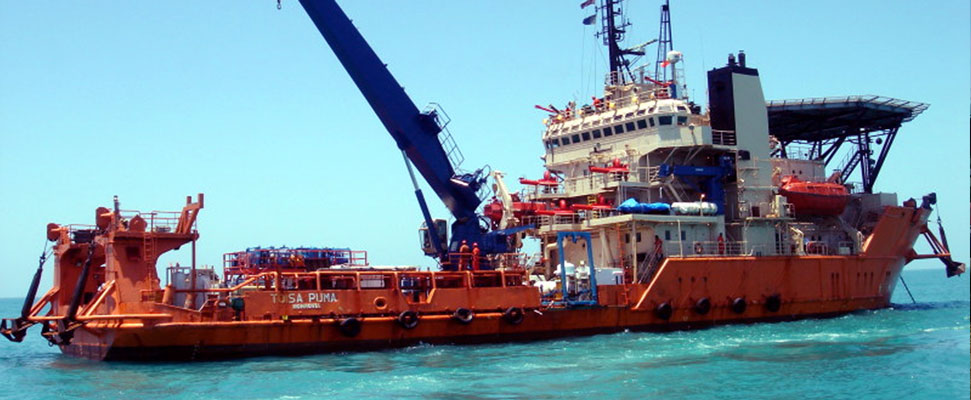
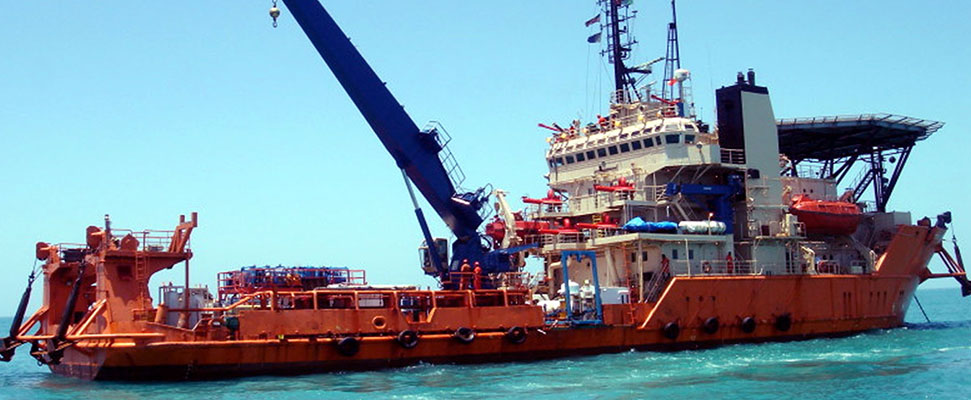
Modificaciones del cliente
Cambio de estilos en flotilla
Se editaron imágenes e íconos

diff --git a/css/custom.css b/css/custom.css
@@ -1,1 +1,1 @@
-.center{margin-left:auto;margin-right:auto}body{padding-top:50px;font-family:'Droid Sans' !important}h2{font-weight:bold;color:#123e84}h3{font-size:2.5em;color:#123e84}h4,.h4{color:#123e84;line-height:1em;font-size:1.8em}h5,.h5{color:#616974;font-size:1.3em;line-height:1.5em}hr{border-top:1px solid #bc212b}.mision,.quienes,.services,.flotilla{padding-bottom:55px;padding-top:55px}.home{color:#919396;position:relative;text-align:center;padding-top:180px;padding-bottom:150px}.home img{opacity:1}.home ul{display:block;text-align:center;position:relative;left:25%;font-size:1.3em}.home ul li{float:left;margin:20px;display:inline-block;font-weight:bold}.quote{position:relative;width:100%;color:#fff}.quote p{text-shadow:0 1px 3px rgba(0,0,0,0.25);text-align:center;margin-top:150px;margin-bottom:150px}.services h2{padding-bottom:20px}.contacto{padding-top:55px;padding-bottom:100px}.contacto article{border-left:1px solid #616974;font-size:1.5em;margin:1em 1em}.contacto h2,.contacto h3,.contacto h4{color:#fff !important}.gallery{min-height:400px;color:#fff;width:100%;font-size:.9em;margin-top:40px}.gallery h3{font-size:1.7em;line-height:12px}.gallery h4{font-size:1.4em;line-height:12px}.gallery h3,.gallery h4{color:#fff}.gallery .jcarousel{background-color:#123e84}.gallery .jcarousel .container{padding-top:200px;padding-bottom:50px}.gallery li{position:relative;background-repeat:no-repeat;min-height:600px;background-position:50%;background-size:cover}.gallery li.truck0{background-image:url(../images/gallery/camion0.jpg)}.gallery li.truck1{background-image:url(../images/gallery/camion1.jpg)}.gallery li.truck2{background-image:url(../images/gallery/camion2.jpg)}.gallery li.truck3{background-image:url(../images/gallery/terex.jpg)}.gallery li.buque1{background-image:url(../images/gallery/BUQUE_AHTS.jpg)}.gallery li.heli1{background-image:url(../images/gallery/bell_212.jpg)}.gallery li article{-webkit-transition:opacity .3s ease-in-out;-moz-transition:opacity .3s ease-in-out;-ms-transition:opacity .3s ease-in-out;-o-transition:opacity .3s ease-in-out;cursor:default;opacity:.4;line-height:1.2em;color:#f2f2f2;position:absolute;bottom:0;left:1.5em}.gallery li article:hover{opacity:1}.background{position:fixed;background-repeat:no-repeat;height:100%;width:100%;background-position:50%;background-size:cover;-webkit-transition:opacity 2s ease-in-out;-moz-transition:opacity 2s ease-in-out;-ms-transition:opacity 2s ease-in-out;-o-transition:opacity 2s ease-in-out}.background.bg1{background-image:url(../images/bg1.jpg)}.background.bg2{background-image:url(../images/bg2.jpg);opacity:0}.background.bg3{background-image:url(../images/bg3.jpg);opacity:0}.cover-blue-mate{color:#fff;position:relative;height:100%;width:100%;background-color:#29486b}.cover-blue{color:#fff;position:relative;height:100%;width:100%;background-color:#29486b;opacity:.88}.cover-grey{position:relative;height:100%;width:100%;background-color:#f2f2f2;box-shadow:0 0 3px 2px rgba(0,0,0,0.2)}.cover-red{background-color:#bc1600;opacity:.88}.cover-shadow{-webkit-box-shadow:inset 0 -120px 200px 0 rgba(0,0,0,0.9);-moz-box-shadow:inset 0 -120px 200px 0 rgba(0,0,0,0.9);box-shadow:inset 0 -120px 200px 0 rgba(0,0,0,0.9)}.navbar-logo{margin:40px auto}.navbar-header{padding:10px}.navbar-default{background-color:#fff;background:-webkit-gradient(linear, left top, left bottom, from(#fff), to(#e9e9e9));background:-webkit-linear-gradient(top, #fff, #e9e9e9);background:-moz-linear-gradient(top, #fff, #e9e9e9);background:-ms-linear-gradient(top, #fff, #e9e9e9);background:-o-linear-gradient(top, #fff, #e9e9e9);box-shadow:0 0 5px 2px rgba(0,0,0,0.2)}.navbar-default .navbar-nav{margin-top:15px}.navbar-default .navbar-nav li{-webkit-transition:all 1s ease-in-out;-moz-transition:all 1s ease-in-out;-ms-transition:all 1s ease-in-out;-o-transition:all 1s ease-in-out;border-right:2px solid #f2f2f2}.navbar-default .navbar-nav li a{padding-top:10px;padding-bottom:10px;padding-left:45px;color:#29486b;background-color:none}.navbar-default .navbar-nav li.active{-webkit-transition:all 1s ease-in-out;-moz-transition:all 1s ease-in-out;-ms-transition:all 1s ease-in-out;-o-transition:all 1s ease-in-out;color:#bc212b;border-right:2px solid #bc212b}.navbar-default .navbar-nav li.active a{background-color:inherit !important}.white{background:#fff;position:relative}.padding-1{padding-top:10px;padding-bottom:10px}.padding-2{padding-top:20px;padding-bottom:20px}.padding-3{padding-top:40px;padding-bottom:40px}.padding-4{padding-top:60px;padding-bottom:60px}.rojo{color:#bc212b}ul.valores li{color:#919396;float:none;line-height:35px}ul.valores li span{font-size:13px;margin-left:3em;padding-right:1em}.jcarousel .carousel-navigation{margin-top:30px}.jcarousel .carousel-navigation li{-webkit-transition:all 1s ease-in-out;-moz-transition:all 1s ease-in-out;-ms-transition:all 1s ease-in-out;-o-transition:all 1s ease-in-out;margin:auto 18px;opacity:.8}.jcarousel .carousel-navigation li:active,.jcarousel .carousel-navigation li:hover{opacity:1}.jcarousel .carousel-navigation li.active{opacity:.3}.jcarousel .carousel-navigation img{cursor:pointer}
+.center{margin-left:auto;margin-right:auto}body{padding-top:50px;font-family:'Droid Sans' !important}h2{font-weight:bold;color:#123e84}h3{font-size:2.5em;color:#123e84}h4,.h4{color:#123e84;line-height:1em;font-size:1.8em}h5,.h5{color:#616974;font-size:1.3em;line-height:1.5em}hr{border-top:1px solid #bc212b}.mision,.quienes,.services{padding-bottom:55px;padding-top:55px}.flotilla{padding-bottom:45px;padding-top:35px}.home{color:#919396;position:relative;text-align:center;padding-top:180px;padding-bottom:150px}.home img{opacity:1}.home ul{display:block;text-align:center;position:relative;left:25%;font-size:1.3em}.home ul li{float:left;margin:20px;display:inline-block;font-weight:bold}.quote{position:relative;width:100%;color:#fff}.quote p{text-shadow:0 1px 3px rgba(0,0,0,0.25);text-align:center;margin-top:150px;margin-bottom:150px}.services h2{padding-bottom:20px}.contacto{padding-top:55px;padding-bottom:100px}.contacto article{border-left:1px solid #616974;font-size:1.5em;margin:1em 1em}.contacto h2,.contacto h3,.contacto h4{color:#fff !important}.gallery{min-height:400px;color:#fff;width:100%;font-size:.9em;margin-top:40px}.gallery h3{font-size:1.7em;line-height:12px}.gallery h4{font-size:1.4em;line-height:12px}.gallery h3,.gallery h4{color:#fff}.gallery .jcarousel{background-color:#123e84}.gallery .jcarousel .container{padding-top:200px;padding-bottom:50px}.gallery li{position:relative;background-repeat:no-repeat;min-height:600px;background-position:50%;background-size:cover}.gallery li.truck0{background-image:url(../images/gallery/camion0.jpg)}.gallery li.truck1{background-image:url(../images/gallery/camion1.jpg)}.gallery li.truck2{background-image:url(../images/gallery/camion2.jpg)}.gallery li.truck3{background-image:url(../images/gallery/terex.jpg)}.gallery li.buque1{background-image:url(../images/gallery/BUQUE_AHTS.jpg)}.gallery li.heli1{background-image:url(../images/gallery/bell_212.jpg)}.gallery li article{-webkit-transition:opacity .3s ease-in-out;-moz-transition:opacity .3s ease-in-out;-ms-transition:opacity .3s ease-in-out;-o-transition:opacity .3s ease-in-out;cursor:default;display:block;width:100%;background-color:#000;opacity:.4;line-height:1.2em;color:#f2f2f2;position:absolute;bottom:0;left:0;padding-left:1.5em}.gallery li article:hover{opacity:1}.background{position:fixed;background-repeat:no-repeat;height:100%;width:100%;background-position:50%;background-size:cover;-webkit-transition:opacity 2s ease-in-out;-moz-transition:opacity 2s ease-in-out;-ms-transition:opacity 2s ease-in-out;-o-transition:opacity 2s ease-in-out}.background.bg1{background-image:url(../images/bg1.jpg)}.background.bg2{background-image:url(../images/bg2.jpg);opacity:0}.background.bg3{background-image:url(../images/bg3.jpg);opacity:0}.cover-blue-mate{color:#fff;position:relative;height:100%;width:100%;background-color:#29486b}.cover-blue{color:#fff;position:relative;height:100%;width:100%;background-color:#29486b;opacity:.88}.cover-grey{position:relative;height:100%;width:100%;background-color:#f2f2f2;box-shadow:0 0 3px 2px rgba(0,0,0,0.2)}.cover-red{background-color:#bc1600;opacity:.88}.cover-shadow{-webkit-box-shadow:inset 0 -120px 200px 0 rgba(0,0,0,0.9);-moz-box-shadow:inset 0 -120px 200px 0 rgba(0,0,0,0.9);box-shadow:inset 0 -120px 200px 0 rgba(0,0,0,0.9)}.navbar-logo{margin:40px auto}.navbar-header{padding:10px}.navbar-default{background-color:#fff;background:-webkit-gradient(linear, left top, left bottom, from(#fff), to(#e9e9e9));background:-webkit-linear-gradient(top, #fff, #e9e9e9);background:-moz-linear-gradient(top, #fff, #e9e9e9);background:-ms-linear-gradient(top, #fff, #e9e9e9);background:-o-linear-gradient(top, #fff, #e9e9e9);box-shadow:0 0 5px 2px rgba(0,0,0,0.2)}.navbar-default .navbar-nav{margin-top:15px}.navbar-default .navbar-nav li{-webkit-transition:all 1s ease-in-out;-moz-transition:all 1s ease-in-out;-ms-transition:all 1s ease-in-out;-o-transition:all 1s ease-in-out;border-right:2px solid #f2f2f2}.navbar-default .navbar-nav li a{padding-top:10px;padding-bottom:10px;padding-left:45px;color:#29486b;background-color:none}.navbar-default .navbar-nav li.active{-webkit-transition:all 1s ease-in-out;-moz-transition:all 1s ease-in-out;-ms-transition:all 1s ease-in-out;-o-transition:all 1s ease-in-out;color:#bc212b;border-right:2px solid #bc212b}.navbar-default .navbar-nav li.active a{background-color:inherit !important}.white{background:#fff;position:relative}.padding-1{padding-top:10px;padding-bottom:10px}.padding-2{padding-top:20px;padding-bottom:20px}.padding-3{padding-top:40px;padding-bottom:40px}.padding-4{padding-top:60px;padding-bottom:60px}.rojo{color:#bc212b}ul.valores li{color:#919396;float:none;line-height:35px}ul.valores li span{font-size:13px;margin-left:3em;padding-right:1em}.jcarousel .carousel-navigation{margin-top:30px}.jcarousel .carousel-navigation li{-webkit-transition:all 1s ease-in-out;-moz-transition:all 1s ease-in-out;-ms-transition:all 1s ease-in-out;-o-transition:all 1s ease-in-out;margin:auto 18px;opacity:.8}.jcarousel .carousel-navigation li:active,.jcarousel .carousel-navigation li:hover{opacity:1}.jcarousel .carousel-navigation li.active{opacity:.3}.jcarousel .carousel-navigation img{cursor:pointer}

diff --git a/index.html b/index.html
@@ -219,7 +219,7 @@
 				</div>
 				<div class="jcarousel gallery carousel-stage">
 					<ul id="slides" class="jcarousel-skin-tango">
-						<li class="truck0 cover-shadow container">
+						<li class="truck0 container">
 							<article>
 								<h3>CAMIÓN TORTON CON GRÚA ARTICULADA</h3>
 								<p>
@@ -230,7 +230,7 @@
 								</p>
 							</article>
 						</li>
-						<li class="truck1 cover-shadow container">
+						<li class="truck1 container">
 							<article>
 								<h3>CAMIÓN TORTON CON GRÚA ARTICULADA</h3>
 								<p>
@@ -241,7 +241,7 @@
 								</p>
 							</article>
 						</li>
-						<li class="truck2 cover-shadow container">
+						<li class="truck2 container">
 							<article>
 								<h3>CAMIÓN TORTON CON GRÚA ARTICULADA</h3>
 								<p>
@@ -251,7 +251,7 @@
 								</p>
 							</article>
 						</li>
-						<li class="truck3 cover-shadow container">
+						<li class="truck3 container">
 							<article>
 								<h3>CAMIÓN TORTON CON GRÚA ARTICULADA</h3>
 								<p>
@@ -261,7 +261,7 @@
 								</p>
 							</article>
 						</li>
-						<li class="buque1 cover-shadow container">
+						<li class="buque1 container">
 							<article>
 								<h3>CAMIÓN TORTON CON GRÚA ARTICULADA</h3>
 								<p>
@@ -271,7 +271,7 @@
 								</p>
 							</article>
 						</li>
-						<li class="heli1 cover-shadow container">
+						<li class="heli1 container">
 							<article>
 								<h3>CAMIÓN TORTON CON GRÚA ARTICULADA</h3>
 								<p>

diff --git a/css/custom.less b/css/custom.less
@@ -39,9 +39,13 @@ h5,.h5{
 hr{
 	border-top: 1px solid @rojo;
 }
-.mision,.quienes,.services,.flotilla{
+.mision,.quienes,.services{
 	padding-bottom: 55px;
 	padding-top: 55px;
+}
+.flotilla{
+	padding-bottom: 45px;
+	padding-top: 35px;
 }
 .home{
 	& img{
@@ -100,9 +104,6 @@ hr{
 	padding-top: 55px;
 	padding-bottom: 100px;
 }
-.flotilla{
-
-}
 .gallery{
 	min-height: 400px;
 	color: white;
@@ -144,12 +145,16 @@ hr{
 		& article{
 			.transition(opacity .3s ease-in-out);
 			cursor: default;
+			display: block;
+			width: 100%;
+			background-color: black;
 			opacity: .4;
 			line-height: 1.2em;
 			color: @gris-light;
 			position: absolute;
 			bottom: 0;
-			left: 1.5em;
+			left: 0;
+			padding-left: 1.5em;
 			&:hover{
 				opacity: 1;
 			}
